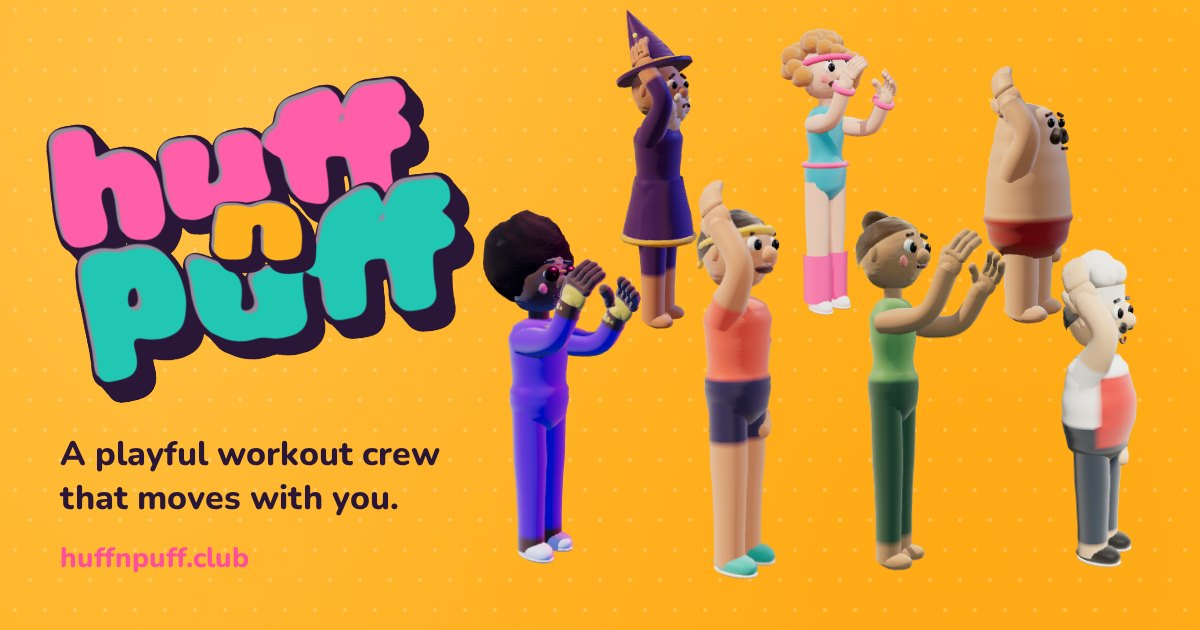
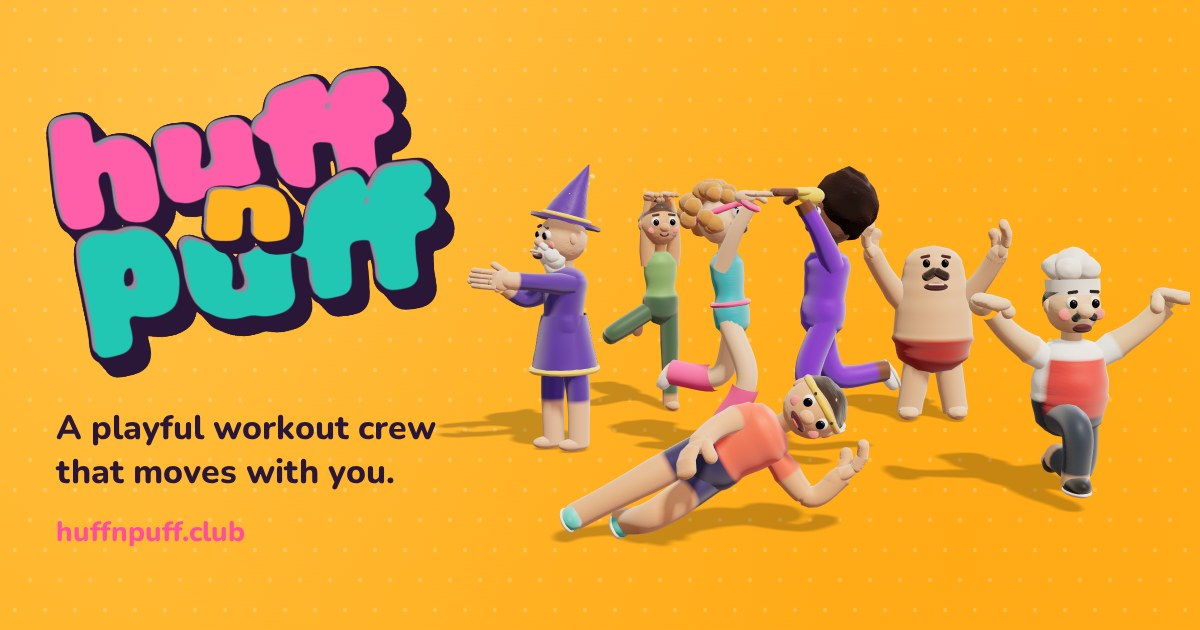
Link preview: custom group pose with the whole crew in one scene
Merlin points at the logo, Jolene and DJ Dee jump into a high five,
Fern holds tree pose, Bruno cheers, Chef Bao kneels for a ta-da and
Pip sprawls across the front, all sharing one stage, floor and light.

Claude-Session: https://claude.ai/code/session_01WbWMGwF8A97iFsVgkEYZhs

diff --git a/tools/og.html b/tools/og.html
@@ -1,39 +1,90 @@
 <!doctype html><html><head><meta charset="utf-8"><title>Huff n Puff link preview</title>
-<!-- The 1200×630 link-preview image (Open Graph / Twitter card): the logo and the cast on the brand
-     yellow. tools/render-og.mjs saves window.og() as icons/og.jpg. -->
+<!-- The 1200×630 link-preview image (Open Graph / Twitter card): the logo and the whole crew posed
+     together in one 3D scene on the brand yellow. tools/render-og.mjs saves window.og() as icons/og.jpg. -->
 <link rel="stylesheet" href="../css/app.css"></head><body style="margin:0;background:#eee">
 <script type="module">
+import { Group, Vector3, Mesh, PlaneGeometry, ShadowMaterial } from '../js/vendor/three.js';
 import { drawLogo, paintYellow } from './hnp-logo.js';
-import { renderStill } from '../js/clay3d.js';
-import { getEx } from '../js/exercises.js';
+import { Stage } from '../js/clay3d.js';
+import { EXPR } from '../js/c3d/faces.js';
 const W = 1200, H = 630;
 const c = document.createElement('canvas'); c.width = W; c.height = H; document.body.append(c);
 const x = c.getContext('2d');
 paintYellow(x, W, H);
 x.fillStyle = 'rgba(255,255,255,.22)';
 for (let yy = 10; yy < H; yy += 30) for (let xx = 10 + ((yy / 30) % 2) * 15; xx < W; xx += 30) { x.beginPath(); x.arc(xx, yy, 2, 0, Math.PI * 2); x.fill(); }
-const toImg = (blob) => new Promise((res) => { const i = new Image(); i.onload = () => res(i); i.src = URL.createObjectURL(blob); });
-// the cast, back row then front row, each in a happy pose
-const cast = [
-  // back row
-  ['merlin', 'wave', 660, -10, 380], ['jolene', 'flex', 840, -20, 380], ['bruno', 'wave', 1030, 0, 360],
-  // front row
-  ['dee', 'flex', 560, 170, 450], ['pip', 'wave', 740, 160, 470], ['fern', 'flex', 920, 175, 450], ['bao', 'wave', 1100, 185, 430],
+
+// ---- the group pose: one shared scene, so the crew can actually play off each other ----
+const STAND = { t: 0, ra: [6, 10], la: [-4, 0], rl: [2, 0], ll: [-2, 0] };
+const P = (o) => ({ ...STAND, ...o });
+const D = Math.PI / 180;
+// who · pose · where (x across, z toward the lens) · turn (deg; 0 = facing screen-right, -90 = facing us)
+// · face · hands
+const CREW = [
+  // Merlin, far left, points the way to the logo
+  { who: 'merlin', x: -215, z: -30, ry: -150, face: 'grin', hands: { r: 'flat', l: 'relax' },
+    pose: P({ t: -4, n: 4, la: [92, 96], ra: [40, 120], rab: [40, 10], rl: [8, 0], ll: [-10, 0] }) },
+  // Jolene and DJ Dee meet in a jumping high five
+  { who: 'jolene', x: -78, z: 10, ry: -20, face: 'laugh', hands: { r: 'flat', l: 'relax' }, lift: 26,
+    pose: P({ t: -6, ra: [150, 150], la: [-30, 10], lab: [40, 10], rl: [20, -30], ll: [-20, -90], lfo: 60 }) },
+  { who: 'dee', x: 28, z: 10, ry: 200, face: 'laugh', hands: { l: 'flat', r: 'relax' }, lift: 26,
+    pose: P({ t: -6, la: [150, 150], ra: [-30, 10], rab: [40, 10], ll: [20, -30], rl: [-20, -90], rfo: 60 }) },
+  // Bruno holds the back row up: arms in a big V
+  { who: 'bruno', x: 110, z: -170, ry: -90, face: 'grin', hands: { r: 'relax', l: 'relax' },
+    pose: P({ ra: [20, 20], la: [20, 20], rab: [150, 150], lab: [150, 150], rlab: 10, llab: 10 }) },
+  // Fern balances in tree pose
+  { who: 'fern', x: -140, z: -220, ry: -70, face: 'content', hands: { r: 'flat', l: 'flat' },
+    pose: P({ ra: [178, 182], la: [178, 182], rab: [8, 8], lab: [8, 8], ll: [-2, 0], rl: [30, -110], rlab: 60, rlsw: 30, rfo: 80 }) },
+  // Chef Bao drops to one knee: ta-da!
+  { who: 'bao', x: 182, z: 110, ry: -75, face: 'laugh', hands: { r: 'flat', l: 'flat' },
+    pose: P({ t: 2, ra: [10, 10], la: [10, 10], rab: [125, 135], lab: [125, 135], rl: [88, -2], ll: [-10, -90], lfo: 40 }) },
+  // Pip sprawls across the front, propped on an elbow, the classic team-photo pose
+  { who: 'pip', x: -150, z: 235, ry: -90, rz: -62, y: 2, face: 'happy', hands: { r: 'relax', l: 'relax' },
+    pose: P({ t: 0, n: 10, la: [0, 0], lab: [100, -175], ra: [40, 60], rl: [10, 0], ll: [30, -50] }) },
 ];
-const shots = [];
-for (const [who, ex, cx, top, size] of cast) {
-  const blob = await renderStill(getEx(ex), null, { bare: true, floor: false, width: 420, height: 460, charId: who, phase: 0.3, t: 1.2 + shots.length * 0.4 });
-  shots.push([await toImg(blob), cx, top, size]);
+
+const glc = document.createElement('canvas');
+const st = new Stage(glc, { alpha: true, post: true, shadowSize: 2048 });
+const RW = 760, RH = 630, S = 2;
+st.resize(RW, RH, S);
+const crew = new Group();
+st.scene.add(crew);
+const only = new URLSearchParams(location.search).get('only');
+for (const [i, m] of CREW.entries()) {
+  if (only && !only.split(',').includes(m.who)) continue;
+  const ex = { id: 'og-' + m.who, cat: 'default', anim: { tempo: 1, frames: [{ ...m.pose, lift: m.lift || 0 }] } };
+  st.build(ex, null, { bare: true, floor: false, charId: m.who });
+  st.pose(0, { still: true });
+  st.char.pose(st.J, { face: EXPR[m.face], hands: m.hands, seed: i });
+  const g = st.char.group;
+  crew.add(g);
+  g.position.set(m.x, m.y || 0, m.z);
+  // lying down: tip the turned body over onto its side (world z), so it sprawls facing us
+  g.rotation.set(0, m.ry * D, (m.rz || 0) * D, 'ZYX');
 }
-for (const [im, cx, top, size] of shots) x.drawImage(im, cx - size * 0.46, top, size * 0.92, size * 1.0);
+// one shadow-catching floor under everyone, then light and frame the whole crew
+const floor = new Mesh(new PlaneGeometry(3000, 3000), new ShadowMaterial({ opacity: 0.22 }));
+floor.rotation.x = -Math.PI / 2;
+floor.receiveShadow = true;
+st.world.add(floor);
+Object.assign(st.key.shadow.camera, { left: -700, right: 700, top: 700, bottom: -700, far: 3000 });
+st.key.shadow.camera.updateProjectionMatrix();
+st.key.position.set(260, 700, 520); st.key.target.position.set(0, 0, 0);
+st.camera.fov = 24; st.camera.aspect = RW / RH;
+st.target = new Vector3(0, 115, 0);
+st.setCam(0.0, 0.12, st.target, 1150);
+st.render(1.2, { raw: true });
+x.drawImage(glc, W - RW - 10, 0, RW, RH);
+
+await document.fonts.load('800 34px Nunito');
 const logo = drawLogo(1);
-const lw = 440, lh = lw * logo.height / logo.width;
-x.drawImage(logo, 40, 70, lw, lh);
+const lw = 420, lh = lw * logo.height / logo.width;
+x.drawImage(logo, 40, 60, lw, lh);
 x.fillStyle = '#2a1636'; x.font = '800 34px Nunito, sans-serif';
-x.fillText('A playful workout crew', 60, 70 + lh + 56);
-x.fillText('that moves with you.', 60, 70 + lh + 100);
+x.fillText('A playful workout crew', 56, 60 + lh + 56);
+x.fillText('that moves with you.', 56, 60 + lh + 100);
 x.fillStyle = '#ff4f9a'; x.font = '800 28px Nunito, sans-serif';
-x.fillText('huffnpuff.club', 60, 70 + lh + 158);
-window.og = () => c.toDataURL('image/jpeg', 0.86);
+x.fillText('huffnpuff.club', 56, 60 + lh + 158);
+window.og = () => c.toDataURL('image/jpeg', 0.88);
 window.done = true;
 </script></body></html>

diff --git a/js/clay3d.js b/js/clay3d.js
@@ -102,7 +102,7 @@ export function supported() {
   return webglOK;
 }
 
-class Stage {
+export class Stage {
   constructor(canvas, { alpha = false, post = true, shadowSize = 1024 } = {}) {
     const r = (this.renderer = new WebGLRenderer({ canvas, antialias: true, alpha, powerPreference: 'default', preserveDrawingBuffer: !!window.__pulseCapture }));
     r.outputColorSpace = SRGBColorSpace;
